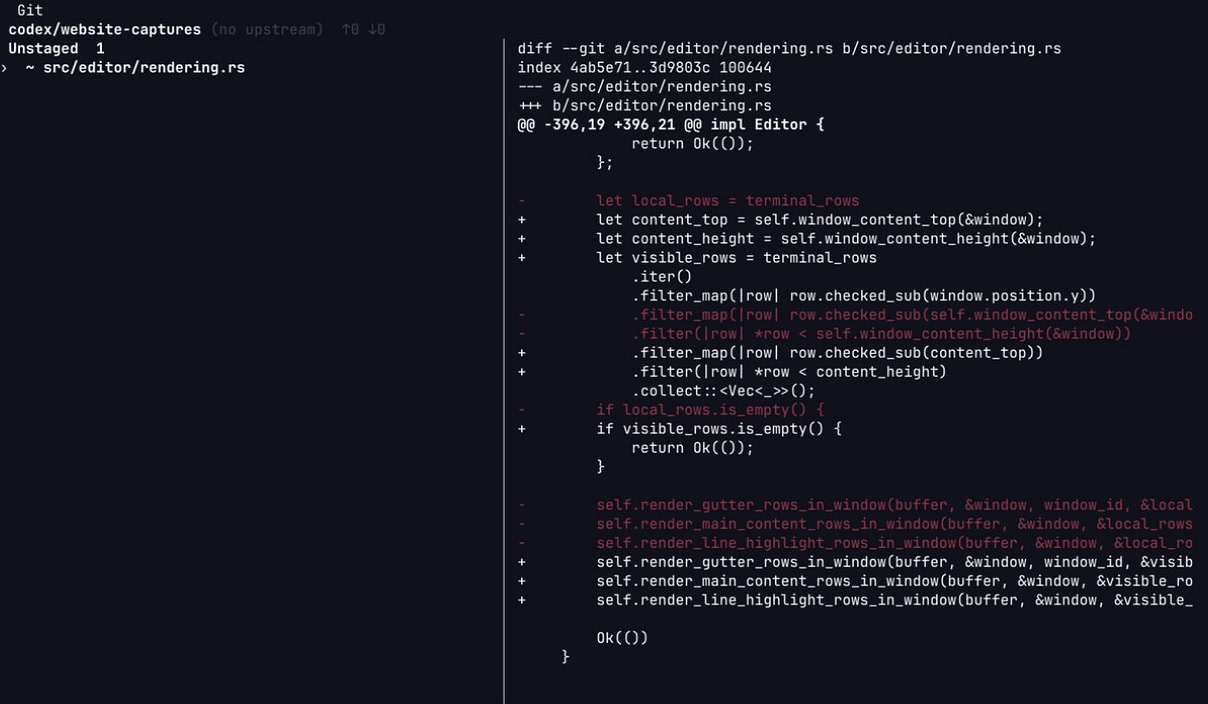
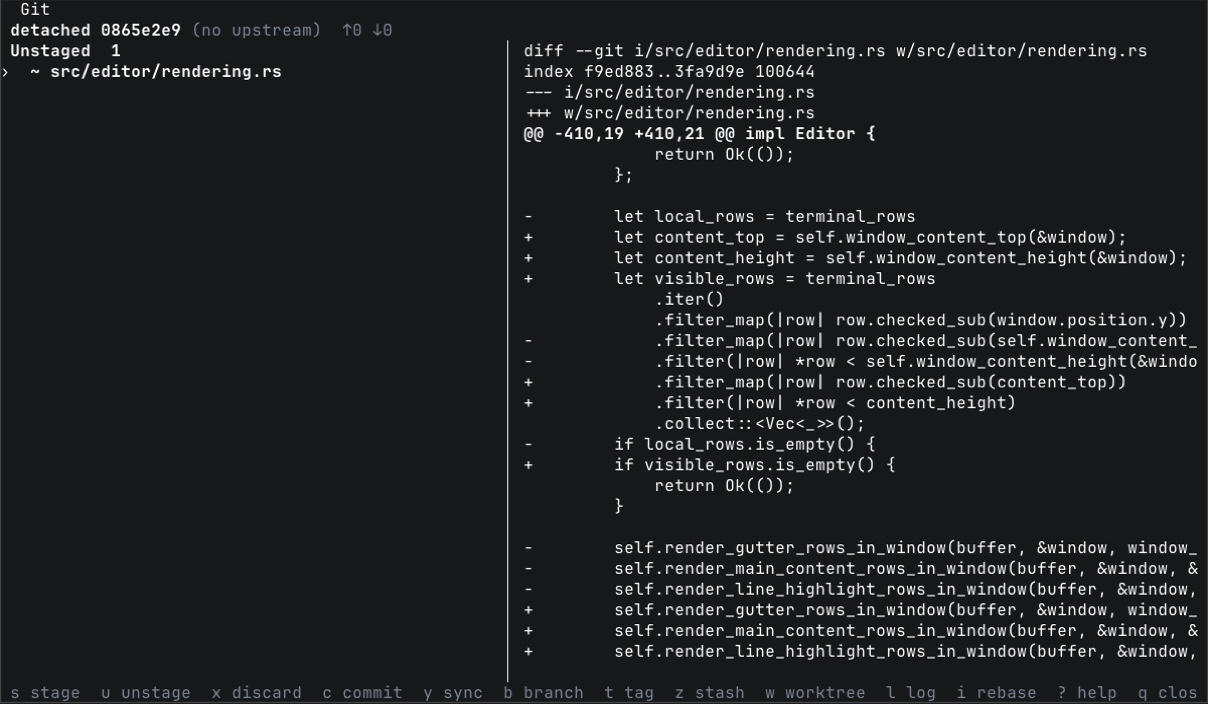
feat(site): showcase themes in editor previews

diff --git a/app/page.tsx b/app/page.tsx
@@ -34,7 +34,7 @@ export default function Home() {
         </div>
         <div className="hero-shot">
           <div className="hero-shot-bar"><span className="preview-dot" /><span>src/editor/rendering.rs</span><span className="hero-shot-note">real capture · Ghostty</span></div>
-          <Image src="/ghostty-code.jpg" width={1208} height={704} alt="Red editing its Rust rendering pipeline with the project file tree open and the NORMAL-mode status bar visible" priority unoptimized />
+          <Image src="/ghostty-code.jpg" width={1208} height={704} alt="Red using the Kanso Ink theme while editing its Rust rendering pipeline with the project file tree open" priority unoptimized />
         </div>
       </div>
     </section>
@@ -50,14 +50,14 @@ export default function Home() {
     </section>
 
     <section className="capture-grid shell" aria-label="Navigation previews">
-      <figure><Image src="/ghostty-picker-demo.jpg" width={1208} height={704} unoptimized alt="Red file picker showing its rendering source and a live buffer preview" /><figcaption><span>FIND SOURCE FILES</span><kbd>Ctrl-p</kbd></figcaption></figure>
-      <figure><Image src="/ghostty-commands-demo.jpg" width={1208} height={704} unoptimized alt="Red command palette showing real Git hunk actions and shortcuts" /><figcaption><span>DISCOVER COMMANDS</span><kbd>Space ?</kbd></figcaption></figure>
+      <figure><Image src="/ghostty-picker-demo.jpg" width={1208} height={704} unoptimized alt="Red using the GitHub Light theme with its file picker and live buffer preview" /><figcaption><span>FIND SOURCE FILES</span><kbd>Ctrl-p</kbd></figcaption></figure>
+      <figure><Image src="/ghostty-commands-demo.jpg" width={1208} height={704} unoptimized alt="Red using the Tokyo Night Storm theme with its Git command palette" /><figcaption><span>DISCOVER COMMANDS</span><kbd>Space ?</kbd></figcaption></figure>
     </section>
 
     <section className="trust shell" id="trust">
       <div className="trust-copy"><span className="eyebrow"><span className="pulse" /> agent workflow</span><h2>Let the agent help.<br /><em>Keep the final say.</em></h2><p>Red can give an agent the context it needs, including unsaved buffers, while staging every suggested write in an isolated proposal filesystem. Review the diff, then accept or reject it explicitly.</p><blockquote>every agent edit is a proposal —<br />nothing touches your files until you accept it</blockquote></div>
       <div className="trust-side">
-        <figure className="trust-shot"><Image src="/ghostty-agent.jpg" width={1208} height={704} unoptimized alt="Red agent prompt asking a contextual question over the editor highlighter source" /><figcaption><span>ASK WITH SOURCE CONTEXT</span><kbd>Space A</kbd></figcaption></figure>
+        <figure className="trust-shot"><Image src="/ghostty-agent.jpg" width={1208} height={704} unoptimized alt="Red using the Rosé Pine Dawn theme with an agent prompt over the editor highlighter source" /><figcaption><span>ASK WITH SOURCE CONTEXT</span><kbd>Space A</kbd></figcaption></figure>
         <div className="trust-steps"><div><span>01</span><h3>Ask</h3><p>Open the agent from the editor with the right workspace context.</p><kbd>Space A</kbd></div><div><span>02</span><h3>Review</h3><p>Inspect attributed changes as clear, isolated proposals.</p><kbd>:AgentReview</kbd></div><div><span>03</span><h3>Decide</h3><p>Accept what helps. Reject what does not. Nothing is silently applied.</p><kbd>your call</kbd></div></div>
       </div>
     </section>

diff --git a/app/components/PreviewTabs.tsx b/app/components/PreviewTabs.tsx
@@ -11,36 +11,36 @@ const previews: Record<Preview, { label: string; title: string; image: string; a
     label: "Edit",
     title: "Rendering pipeline",
     image: "/ghostty-code.jpg",
-    alt: "Red editing its Rust rendering pipeline with the project tree open",
-    note: "src/editor/rendering.rs · Rust · tree-sitter",
+    alt: "Red using the Kanso Ink theme while editing its Rust rendering pipeline with the project tree open",
+    note: "Kanso Ink · Rust · tree-sitter",
   },
   find: {
     label: "Files",
     title: "Find source files",
     image: "/ghostty-picker-demo.jpg",
-    alt: "Red file picker filtering its own rendering and buffer source files",
-    note: "Ctrl-p · fuzzy files · live preview",
+    alt: "Red using the GitHub Light theme with its file picker filtering rendering and buffer source files",
+    note: "GitHub Light · fuzzy files · live preview",
   },
   commands: {
     label: "Commands",
     title: "Discover Git actions",
     image: "/ghostty-commands-demo.jpg",
-    alt: "Red command palette showing Git hunk navigation, stage, reset, and unstage actions",
-    note: "Space ? · 74 commands · shortcuts included",
+    alt: "Red using the Tokyo Night Storm theme with its command palette showing Git hunk actions",
+    note: "Tokyo Night Storm · 74 commands · shortcuts",
   },
   agent: {
     label: "Agent",
     title: "Ask with context",
     image: "/ghostty-agent.jpg",
-    alt: "Red agent prompt asking about tree-sitter injections over the editor highlighter source",
-    note: "Space A · source-aware prompt",
+    alt: "Red using the Rosé Pine Dawn theme with an agent prompt over the editor highlighter source",
+    note: "Rosé Pine Dawn · source-aware prompt",
   },
   git: {
     label: "Git review",
     title: "Review a real diff",
     image: "/ghostty-git-workspace.jpg",
-    alt: "Red Git workspace reviewing an unstaged change to its rendering pipeline",
-    note: "Space G · unstaged rendering diff",
+    alt: "Red using the Cyberdream theme with its Git workspace reviewing an unstaged rendering change",
+    note: "Cyberdream · unstaged rendering diff",
   },
   splash: {
     label: "Welcome",
